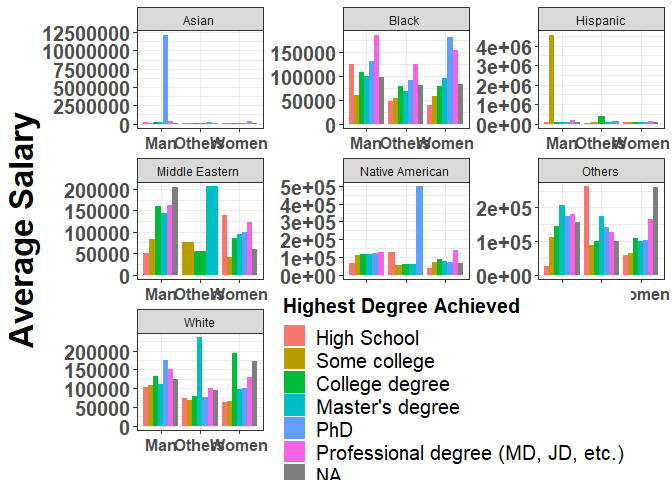
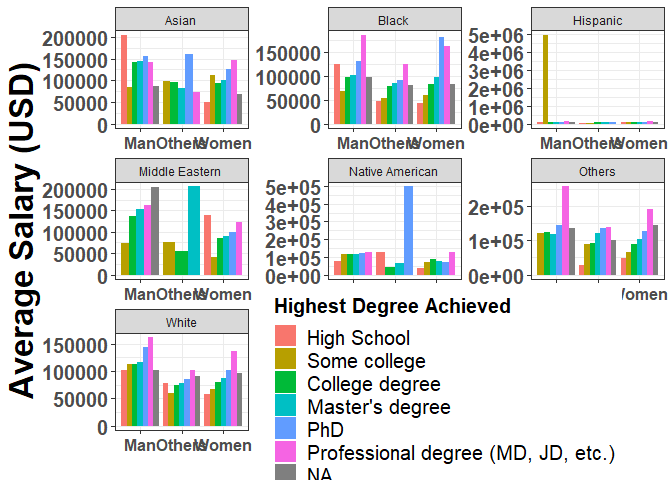
filtered only USD for salary

diff --git a/2021-05-18/README.md b/2021-05-18/README.md
@@ -338,24 +338,24 @@ survey %>% filter(race != "NA") %>%
 
 ``` r
 race_summary <- survey %>% 
-    filter(race != "NA") %>%
+    filter(race != "NA" & currency == "USD") %>%
     separate(race, c("race", "extra"), sep = "or") %>%
     separate(race, c("race", "extra"), sep = ",") 
 ```
 
-    ## Warning: Expected 2 pieces. Additional pieces discarded in 1162 rows [10, 12,
-    ## 46, 57, 106, 118, 128, 160, 161, 171, 172, 193, 215, 224, 238, 283, 359, 391,
-    ## 408, 428, ...].
+    ## Warning: Expected 2 pieces. Additional pieces discarded in 1053 rows [9, 11, 41,
+    ## 49, 89, 104, 130, 131, 140, 141, 160, 179, 187, 200, 241, 304, 334, 350, 367,
+    ## 368, ...].
 
-    ## Warning: Expected 2 pieces. Missing pieces filled with `NA` in 21909 rows [1, 2,
-    ## 3, 4, 5, 6, 7, 8, 9, 11, 14, 15, 16, 17, 18, 19, 20, 21, 22, 23, ...].
+    ## Warning: Expected 2 pieces. Missing pieces filled with `NA` in 18182 rows [1, 2,
+    ## 3, 4, 5, 6, 7, 8, 10, 13, 14, 15, 16, 17, 18, 19, 21, 22, 23, 25, ...].
 
-    ## Warning: Expected 2 pieces. Additional pieces discarded in 904 rows [10, 12, 46,
-    ## 57, 106, 118, 160, 161, 171, 172, 193, 215, 224, 238, 283, 359, 391, 408, 428,
-    ## 429, ...].
+    ## Warning: Expected 2 pieces. Additional pieces discarded in 833 rows [9, 11, 41,
+    ## 49, 89, 130, 131, 140, 141, 160, 179, 187, 200, 241, 304, 334, 350, 367, 368,
+    ## 403, ...].
 
-    ## Warning: Expected 2 pieces. Missing pieces filled with `NA` in 25120 rows [1, 2,
-    ## 3, 4, 5, 6, 7, 8, 9, 11, 13, 14, 15, 16, 17, 18, 19, 20, 21, 22, ...].
+    ## Warning: Expected 2 pieces. Missing pieces filled with `NA` in 20857 rows [1, 2,
+    ## 3, 4, 5, 6, 7, 8, 10, 12, 13, 14, 15, 16, 17, 18, 19, 20, 21, 22, ...].
 
 ``` r
 race_summary <- race_summary %>% mutate(race = replace(race, race == "Another option not listed here", "Others"))
@@ -376,13 +376,13 @@ race_summary %>% count(race, sort = T)
     ## # A tibble: 7 x 2
     ##   race                   n
     ##   <chr>              <int>
-    ## 1 "White"            21971
-    ## 2 "Asian "            1610
-    ## 3 "Hispanic"           904
-    ## 4 "Black "             792
-    ## 5 "Others"             566
-    ## 6 "Middle Eastern "    137
-    ## 7 "Native American "   106
+    ## 1 "White"            18217
+    ## 2 "Asian "            1334
+    ## 3 "Hispanic"           833
+    ## 4 "Black "             712
+    ## 5 "Others"             428
+    ## 6 "Middle Eastern "    117
+    ## 7 "Native American "    84
 
 ``` r
 race_summary %>% group_by(race, gender_update, highest_level_of_education_completed) %>%
@@ -407,7 +407,7 @@ race_summary %>% group_by(race, gender_update, highest_level_of_education_comple
   guides(fill = guide_legend(title = "Highest Degree Achieved", title.position = "top",
                              title.theme = element_text(size = 15, face = "bold"),
                              )) +
-  labs(x = "", y = "Average Salary")
+  labs(x = "", y = "Average Salary (USD)")
 ```
 
 ![](README_files/figure-gfm/unnamed-chunk-18-1.png)<!-- -->
